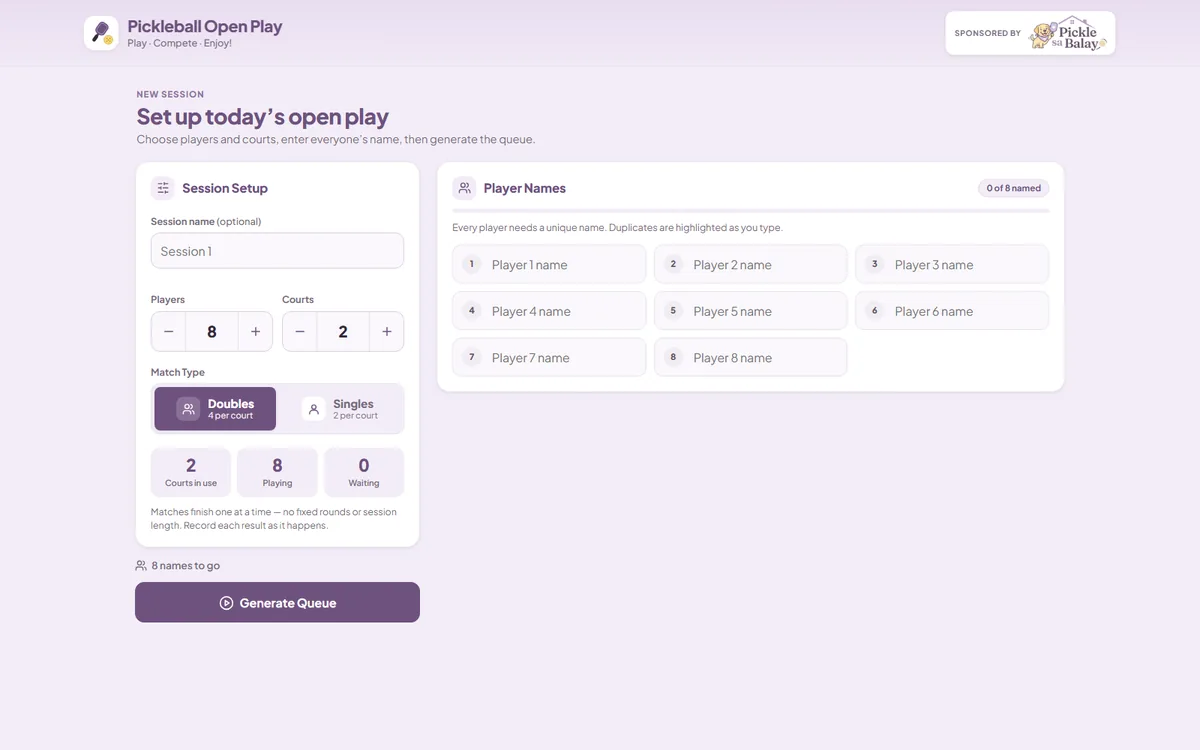
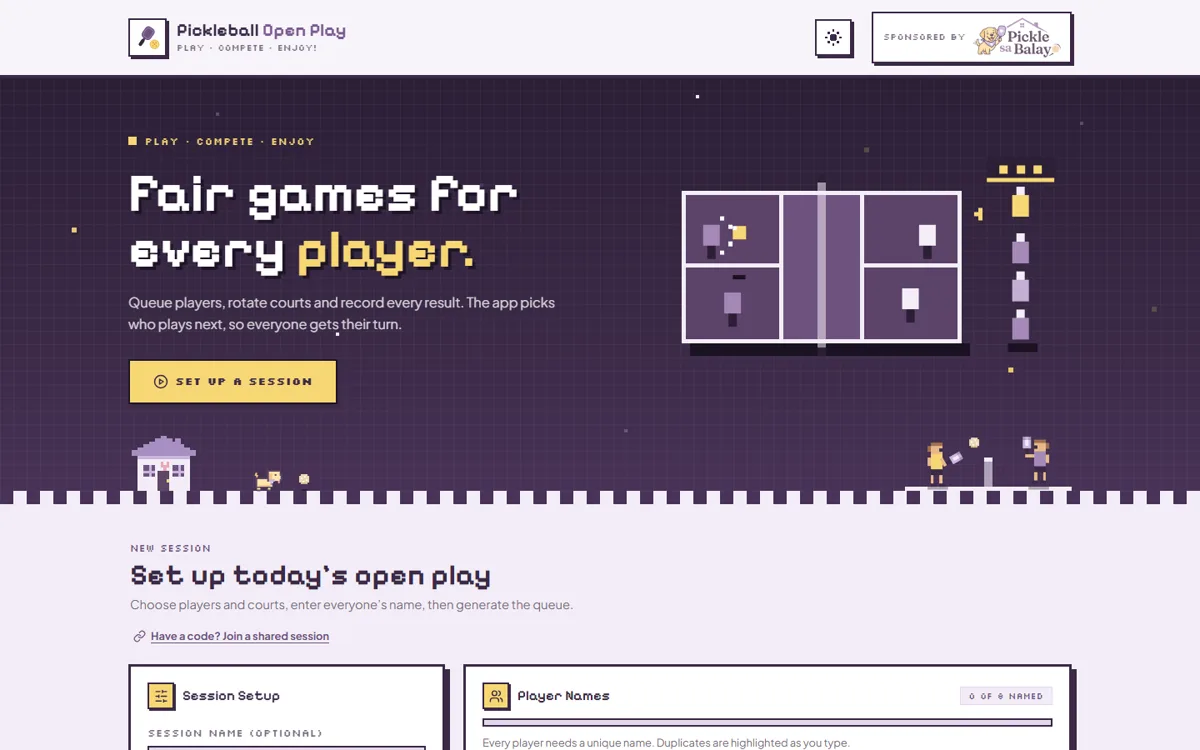
change Pickle sa balay case studies

diff --git a/index.html b/index.html
@@ -174,10 +174,22 @@
         </header>
 
         <div class="about__grid">
-          <h2 class="about__statement" id="about-title" data-reveal>
-            I care about the space between <em>how it looks</em> and <em>how it works</em> —
-            and I build websites where both feel effortless.
-          </h2>
+          <div class="about__lead">
+            <h2 class="about__statement" id="about-title" data-reveal>
+              I care about the space between <em>how it looks</em> and <em>how it works</em> —
+              and I build websites where both feel effortless.
+            </h2>
+
+            <!-- Portrait hidden for now. Uncomment to show it again (styles: .about__photo in styles.css).
+            <figure class="about__photo" data-reveal>
+              <div class="about__photo-frame">
+                <img src="assets/img/portrait.webp" alt="Jestin Villegas smiling in glasses, wearing a black shirt and a red backpack strap, outdoors in Cebu City" width="800" height="1000" loading="lazy" decoding="async">
+              </div>
+              <figcaption>Hi, that's me · Cebu City</figcaption>
+            </figure>
+            -->
+
+          </div>
 
           <div class="about__body">
             <p data-reveal>
@@ -404,9 +416,6 @@
               <a class="link-arrow is-disabled" href="#" aria-disabled="true" title="Private system — add a demo link if available">
                 Live site <span class="muted">(private)</span> <svg class="icon" aria-hidden="true"><use href="#i-arrow"/></svg>
               </a>
-              <a class="link-arrow is-disabled" href="#" aria-disabled="true" title="Add a GitHub link if available">
-                GitHub <svg class="icon" aria-hidden="true"><use href="#i-arrow"/></svg>
-              </a>
             </div>
           </div>
         </article>
@@ -449,9 +458,6 @@
             <div class="case__links">
               <a class="link-arrow" href="#bukkenking-sites">
                 See live client sites <svg class="icon" aria-hidden="true" style="transform: rotate(90deg)"><use href="#i-arrow"/></svg>
-              </a>
-              <a class="link-arrow is-disabled" href="#" aria-disabled="true" title="Client project — no public repository">
-                GitHub <span class="muted">(private)</span> <svg class="icon" aria-hidden="true"><use href="#i-arrow"/></svg>
               </a>
             </div>
           </div>
@@ -500,66 +506,91 @@
 
         <!-- Project 03 -->
         <article class="case" data-reveal>
+          <!-- case__row keeps the sticky preview inside this row, so it stops before the related projects -->
+          <div class="case__row">
           <a class="case__media" href="#case-pikolq" data-cursor="Read" aria-label="Read the Pickle sa Balay case study">
             <div class="case__frame" data-parallax-img>
-              <img src="assets/img/project-pikolq.webp" alt="Pickle sa Balay homepage: the headline 'Pick your slot. Hit the spot.' with Book a Court and Find My Booking buttons beside a cartoon puppy holding a pickleball paddle" width="1600" height="1000" loading="lazy" decoding="async">
+              <img src="assets/img/project-pikolq.webp?v=3" alt="Pickle sa Balay homepage: the pixel-art headline 'Find your court. Play tonight.' with See Schedule and Court Info buttons beside a pixel calendar, above hours, court rates and contact cards" width="1600" height="1000" loading="lazy" decoding="async">
             </div>
+            <figure class="case__inset">
+              <div class="case__inset-img">
+                <img src="assets/img/pikolq-schedule.webp?v=3" alt="Pickle sa Balay schedule page: a month calendar beside an hour-by-hour grid for Courts 1 to 3, with open slots in green and Court 1 marked 'Painting in progress'" width="1280" height="648" loading="lazy" decoding="async">
+              </div>
+              <figcaption>Live court schedule</figcaption>
+            </figure>
             <span class="case__index">03</span>
           </a>
 
           <div class="case__body" id="case-pikolq">
             <div class="case__top">
-              <span class="case__tag">Booking System · <span class="status-pill">In development</span></span>
+              <span class="case__tag">Court Schedule &amp; Booking · 2026</span>
               <h3 class="case__title">Pickle sa Balay</h3>
-              <p class="case__client">Pickleball court booking · Design &amp; development</p>
+              <p class="case__client">Pickleball court venue · Design &amp; development</p>
             </div>
 
             <dl class="case__study">
-              <div><dt>The Project</dt><dd>An online booking system for a private pickleball court. Players pick a time, book a slot and pay in a few steps — no account required — while staff run courts, schedules, bookings and payments from an admin panel.</dd></div>
-              <div><dt>The Challenge</dt><dd>Two people must never land the same slot, and availability has to respect operating hours, blocked dates, maintenance windows and slots held mid-checkout — without making booking feel slow.</dd></div>
-              <div><dt>My Contribution</dt><dd>Built a step-by-step booking flow backed by a live availability API; an availability rule pipeline; a double-booking guard using database row locks; a payment layer with a PayMongo driver and duplicate-safe webhooks; and an admin panel with day/week/month calendars, maintenance, refunds, reports, audit log and Admin / Manager / Customer roles.</dd></div>
-              <div><dt>The Result</dt><dd>Still in development. The booking, payment and admin flows already work end to end and are covered by 40 automated test files.</dd></div>
+              <div><dt>The Project</dt><dd>The website for Pickle sa Balay, a three-court pickleball venue open 4 PM to 4 AM. Players see which courts are free hour by hour before heading over, then book and pay online in a few taps — no account needed — while the front desk runs the schedule from a staff login.</dd></div>
+              <div><dt>The Challenge</dt><dd>The schedule has to be right the moment it changes: what players see must match the front desk, two people can't grab the same slot, and late-night hours after midnight still belong to the same day's schedule. Courts also go out for maintenance or open play, and payment runs through GCash rather than a card checkout.</dd></div>
+              <div><dt>My Contribution</dt><dd>Designed and built the whole site: a pixel-art look shared with the club's other tools; a month calendar and an hour-by-hour grid per court that updates live as staff make changes; online booking where players pick several open slots, which are held on a countdown while they pay by GCash and submit the reference number and a receipt screenshot for staff to verify; courts marked unavailable with a reason or set aside for open play; and a staff login for managing bookings.</dd></div>
+              <div><dt>The Result</dt><dd>Live: players can check open courts and book from their phones, and the site links straight to the club's open play queue and tournament brackets.</dd></div>
             </dl>
 
             <ul class="tags" aria-label="Technologies used">
-              <li>Laravel 13</li><li>PHP</li><li>MySQL</li><li>Blade</li><li>Sass</li><li>JavaScript</li><li>Vite</li><li>PayMongo</li><li>Pest</li>
+              <li>JavaScript</li><li>HTML</li><li>CSS</li><li>Supabase</li><li>PostgreSQL</li><li>Supabase Realtime</li><li>Cloudflare Pages</li>
             </ul>
 
             <div class="case__links">
-              <!-- TODO: add the live URL once deployed -->
-              <a class="link-arrow is-disabled" href="#" aria-disabled="true" title="Add the live link once deployed">Live site <span class="muted">(in development)</span> <svg class="icon" aria-hidden="true"><use href="#i-arrow"/></svg></a>
-              <a class="link-arrow is-disabled" href="#" aria-disabled="true" title="Add a GitHub link if the repository is public">GitHub <svg class="icon" aria-hidden="true"><use href="#i-arrow"/></svg></a>
+              <a class="link-arrow" href="https://schedule-psb.pages.dev/" target="_blank" rel="noopener">Live site <svg class="icon" aria-hidden="true"><use href="#i-arrow"/></svg></a>
+              <a class="link-arrow" href="#pikolq-projects">
+                See related projects <svg class="icon" aria-hidden="true" style="transform: rotate(90deg)"><use href="#i-arrow"/></svg>
+              </a>
             </div>
           </div>
-        </article>
+          </div><!-- /case__row -->
 
-        <!-- Small projects: compact cards under the case studies (thumbnail: 1200×750 .webp) -->
-        <div class="minis" id="small-projects">
-          <div class="case__sites-head" data-reveal>
-            <h3 class="case__sites-title">Small <em>projects</em></h3>
-            <p>Smaller tools built for real use: quick to ship, but held to the same standard as the bigger work.</p>
-          </div>
+          <!-- Projects built alongside Pickle sa Balay. Add or swap cards here (thumbnail: 1200×750 .webp). -->
+          <div class="case__sites" id="pikolq-projects">
+            <div class="case__sites-head">
+              <h4 class="case__sites-title">Built for <em>Pickle sa Balay</em></h4>
+              <p>Companion tools for open play and tournaments, sponsored by Pickle sa Balay and linked from its site.</p>
+            </div>
 
           <ul class="minis__list">
-            <li class="mini" data-reveal>
+            <li class="mini">
               <a class="mini__img" href="https://pikolq.run.place/" target="_blank" rel="noopener" data-cursor="Visit" aria-label="Open the Pickleball Open Play Queue in a new tab">
-                <img src="assets/img/project-openplay.webp" alt="Pickleball Open Play setup screen: session name, player and court steppers, a doubles or singles toggle and a grid of player name fields" width="1200" height="750" loading="lazy" decoding="async">
+                <img src="assets/img/project-openplay.webp?v=2" alt="Pickleball Open Play homepage: the pixel-art headline 'Fair games for every player.' with a Set Up a Session button beside a pixel court and player queue, above the session setup and player name fields" width="1200" height="750" loading="lazy" decoding="async">
               </a>
               <div class="mini__body">
                 <span class="case__tag">Queueing Web App · 2026</span>
                 <h4 class="mini__title">Pickleball Open Play Queue</h4>
-                <p class="mini__desc">An open play queue for pickleball clubs, sponsored by Pickle sa Balay. Enter the players and courts and it decides who plays next: fewest games first, mixed-up partners and opponents, and nobody stuck sitting out or playing back to back. It also records scores and player stats, announces winners and the next match by voice, runs several sessions at once and exports match history as a PDF.</p>
+                <p class="mini__desc">An open play queue for pickleball clubs, sponsored by Pickle sa Balay. Enter the players and courts and it decides who plays next: fewest games first, mixed-up partners and opponents, and nobody stuck sitting out or playing back to back. It also records scores and player stats, announces winners and the next match by voice, runs several sessions at once and exports match history as a PDF. A session can be shared with a short code and passcode, so it can be opened on another device.</p>
                 <ul class="tags" aria-label="Technologies used">
-                  <li>JavaScript</li><li>HTML</li><li>CSS</li><li>localStorage</li><li>Web Speech API</li><li>jsPDF</li><li>PWA</li>
+                  <li>JavaScript</li><li>HTML</li><li>CSS</li><li>localStorage</li><li>Supabase</li><li>Web Speech API</li><li>jsPDF</li><li>PWA</li>
                 </ul>
                 <div class="case__links">
                   <a class="link-arrow" href="https://pikolq.run.place/" target="_blank" rel="noopener">Live site <svg class="icon" aria-hidden="true"><use href="#i-arrow"/></svg></a>
-                  <a class="link-arrow is-disabled" href="#" aria-disabled="true" title="Add a GitHub link if the repository is public">GitHub <svg class="icon" aria-hidden="true"><use href="#i-arrow"/></svg></a>
+                </div>
+              </div>
+            </li>
+            <li class="mini">
+              <a class="mini__img" href="https://tournament.pikolq.run.place/" target="_blank" rel="noopener" data-cursor="Visit" aria-label="Open Pickleball Tournaments in a new tab">
+                <img src="assets/img/project-tournament.webp?v=2" alt="Pickleball Tournaments homepage: the pixel-art headline 'From first serve to champion.' with a Create Tournament button beside a pixel court and trophy, above total, upcoming, ongoing and completed counters" width="1200" height="750" loading="lazy" decoding="async">
+              </a>
+              <div class="mini__body">
+                <span class="case__tag">Tournament Web App · 2026</span>
+                <h4 class="mini__title">Pickleball Tournaments</h4>
+                <p class="mini__desc">A bracket manager for pickleball tournaments, sponsored by Pickle sa Balay. Set up singles or doubles events in single elimination, double elimination or round robin with optional playoffs, add entrants with seeding and automatic byes, then record match scores as winners advance through the bracket to a champion. Runs in the browser with a pixel-art look and links back to the open play queue.</p>
+                <ul class="tags" aria-label="Technologies used">
+                  <li>JavaScript</li><li>HTML</li><li>CSS</li><li>localStorage</li><li>PWA</li>
+                </ul>
+                <div class="case__links">
+                  <a class="link-arrow" href="https://tournament.pikolq.run.place/" target="_blank" rel="noopener">Live site <svg class="icon" aria-hidden="true"><use href="#i-arrow"/></svg></a>
                 </div>
               </div>
             </li>
           </ul>
-        </div>
+          </div>
+        </article>
       </div>
     </section>
 

diff --git a/assets/css/styles.css b/assets/css/styles.css
@@ -686,6 +686,64 @@ em { font-family: var(--font-serif); font-style: italic; font-weight: 400; lette
   letter-spacing: -0.035em;
 }
 .about__statement em { color: var(--accent); }
+/* Portrait: toned into the page palette and faded into the background,
+   so it reads as part of the layout rather than a pasted-in rectangle.
+   Full colour comes back on hover. */
+.about__photo {
+  position: relative;
+  margin-top: clamp(24px, 3vw, 44px);
+  max-width: 400px;
+}
+.about__photo-frame {
+  position: relative;
+  aspect-ratio: 4 / 5;
+  overflow: hidden;
+  /* soft oval fade on every edge, heavier at the bottom */
+  -webkit-mask-image: radial-gradient(ellipse 58% 58% at 50% 42%, #000 45%, transparent 100%);
+          mask-image: radial-gradient(ellipse 58% 58% at 50% 42%, #000 45%, transparent 100%);
+}
+.about__photo-frame img {
+  width: 100%;
+  height: 100%;
+  object-fit: cover;
+  object-position: 50% 30%;
+  filter: grayscale(1) contrast(1.08) brightness(.82);
+  transform: scale(1.02);
+  transition: filter 1s var(--ease-out), transform 1.2s var(--ease-out);
+}
+/* lavender duotone wash in the site accent */
+.about__photo-frame::after {
+  content: "";
+  position: absolute;
+  inset: 0;
+  background: linear-gradient(160deg, var(--accent), #4b3a8f);
+  mix-blend-mode: color;
+  opacity: .45;
+  transition: opacity 1s var(--ease-out);
+  pointer-events: none;
+}
+.about__photo:hover .about__photo-frame img { filter: none; transform: scale(1.05); }
+.about__photo:hover .about__photo-frame::after { opacity: 0; }
+/* caption sits in the faded area, like a label on the page rather than under a card */
+.about__photo figcaption {
+  position: absolute;
+  left: 0;
+  bottom: 6%;
+  display: flex;
+  align-items: center;
+  gap: 10px;
+  font-family: var(--font-mono);
+  font-size: 0.7rem;
+  text-transform: uppercase;
+  letter-spacing: 0.08em;
+  color: var(--muted);
+}
+.about__photo figcaption::before {
+  content: "";
+  width: 28px;
+  height: 1px;
+  background: var(--accent);
+}
 .about__body p { color: var(--text-2); margin-bottom: 1.25em; }
 .about__body p:first-child::first-letter {
   float: left;
@@ -1108,12 +1166,7 @@ em { font-family: var(--font-serif); font-style: italic; font-weight: 400; lette
 .case__links { display: flex; flex-wrap: wrap; gap: 28px; margin-top: 28px; }
 .case--placeholder .case__body { opacity: 0.75; }
 
-/* small projects: compact cards after the case studies */
-.minis {
-  margin-top: clamp(48px, 6vw, 88px);
-  padding-top: clamp(28px, 3vw, 40px);
-  border-top: 1px solid var(--line);
-}
+/* compact project cards (used under a case study's related projects) */
 .minis__list {
   display: grid;
   grid-template-columns: repeat(auto-fill, minmax(min(100%, 340px), 1fr));
